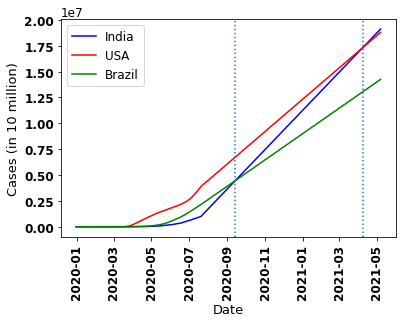
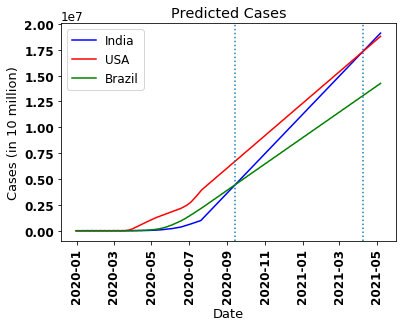
Add files via upload

diff --git a/time_series_predictions.py b/time_series_predictions.py
@@ -103,5 +103,19 @@ plt.xticks(rotation='90', fontweight='bold');plt.yticks(fontweight='bold')
 
 plt.axvline(dt.datetime(2021,4,9), ls = ':')
 plt.axvline(dt.datetime(2020,9,14), ls = ':')
- 
+plt.title('Predicted Cases')
 plt.savefig('Covid_predictions.png', bbox_inches='tight')
+
+#%% currnet trend
+
+plt.rcParams.update({'font.size':12})
+plt.plot(ind['ds'], ind['y'], 'b-', label = 'India')
+plt.plot(us['ds'], us['y'], 'r-', label = 'USA')
+plt.plot(bra['ds'], bra['y'], 'g-', label = 'Brazil')
+
+plt.legend(); plt.xlabel('Date', fontsize='13'); plt.ylabel('Cases (in 10 million)', fontsize='13')
+plt.xticks(rotation='90', fontweight='bold');plt.yticks(fontweight='bold')
+plt.ylim(0,20000000)
+#plt.xlim(forecast.Date.min(),forecast.Date.max())
+plt.title('Actual Cases')
+plt.savefig('Covid_actual.png', bbox_inches='tight')
